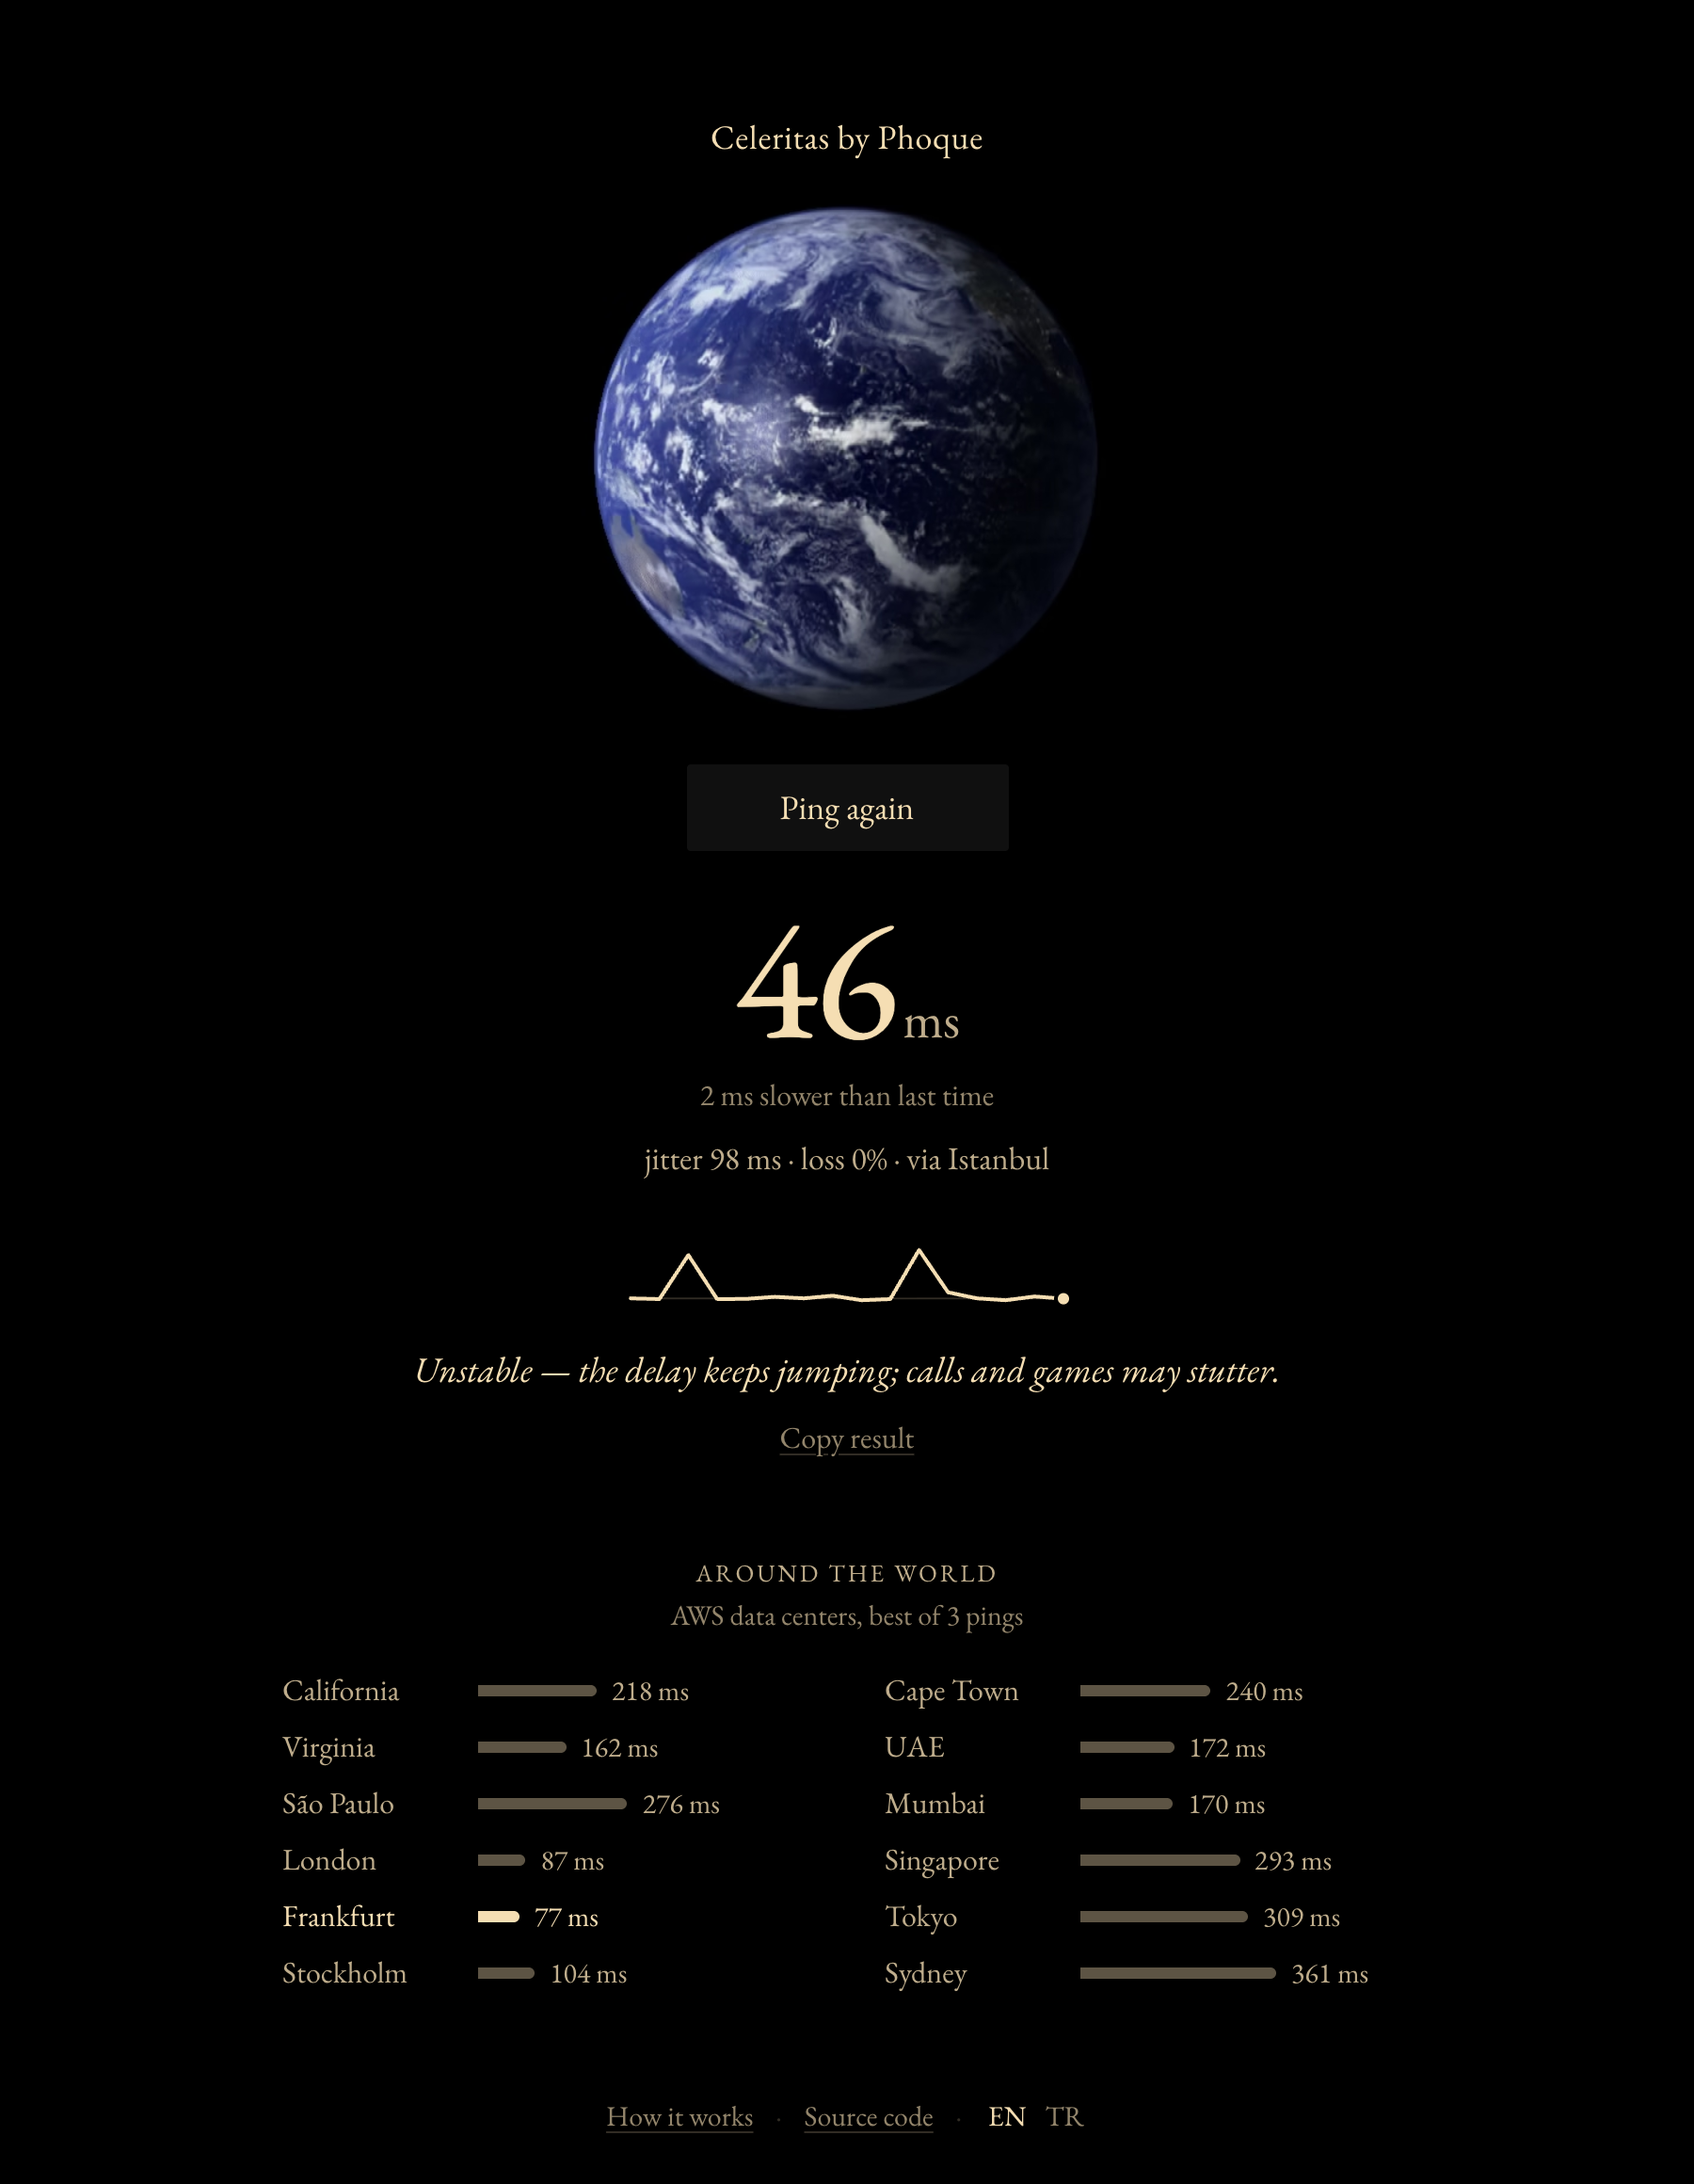
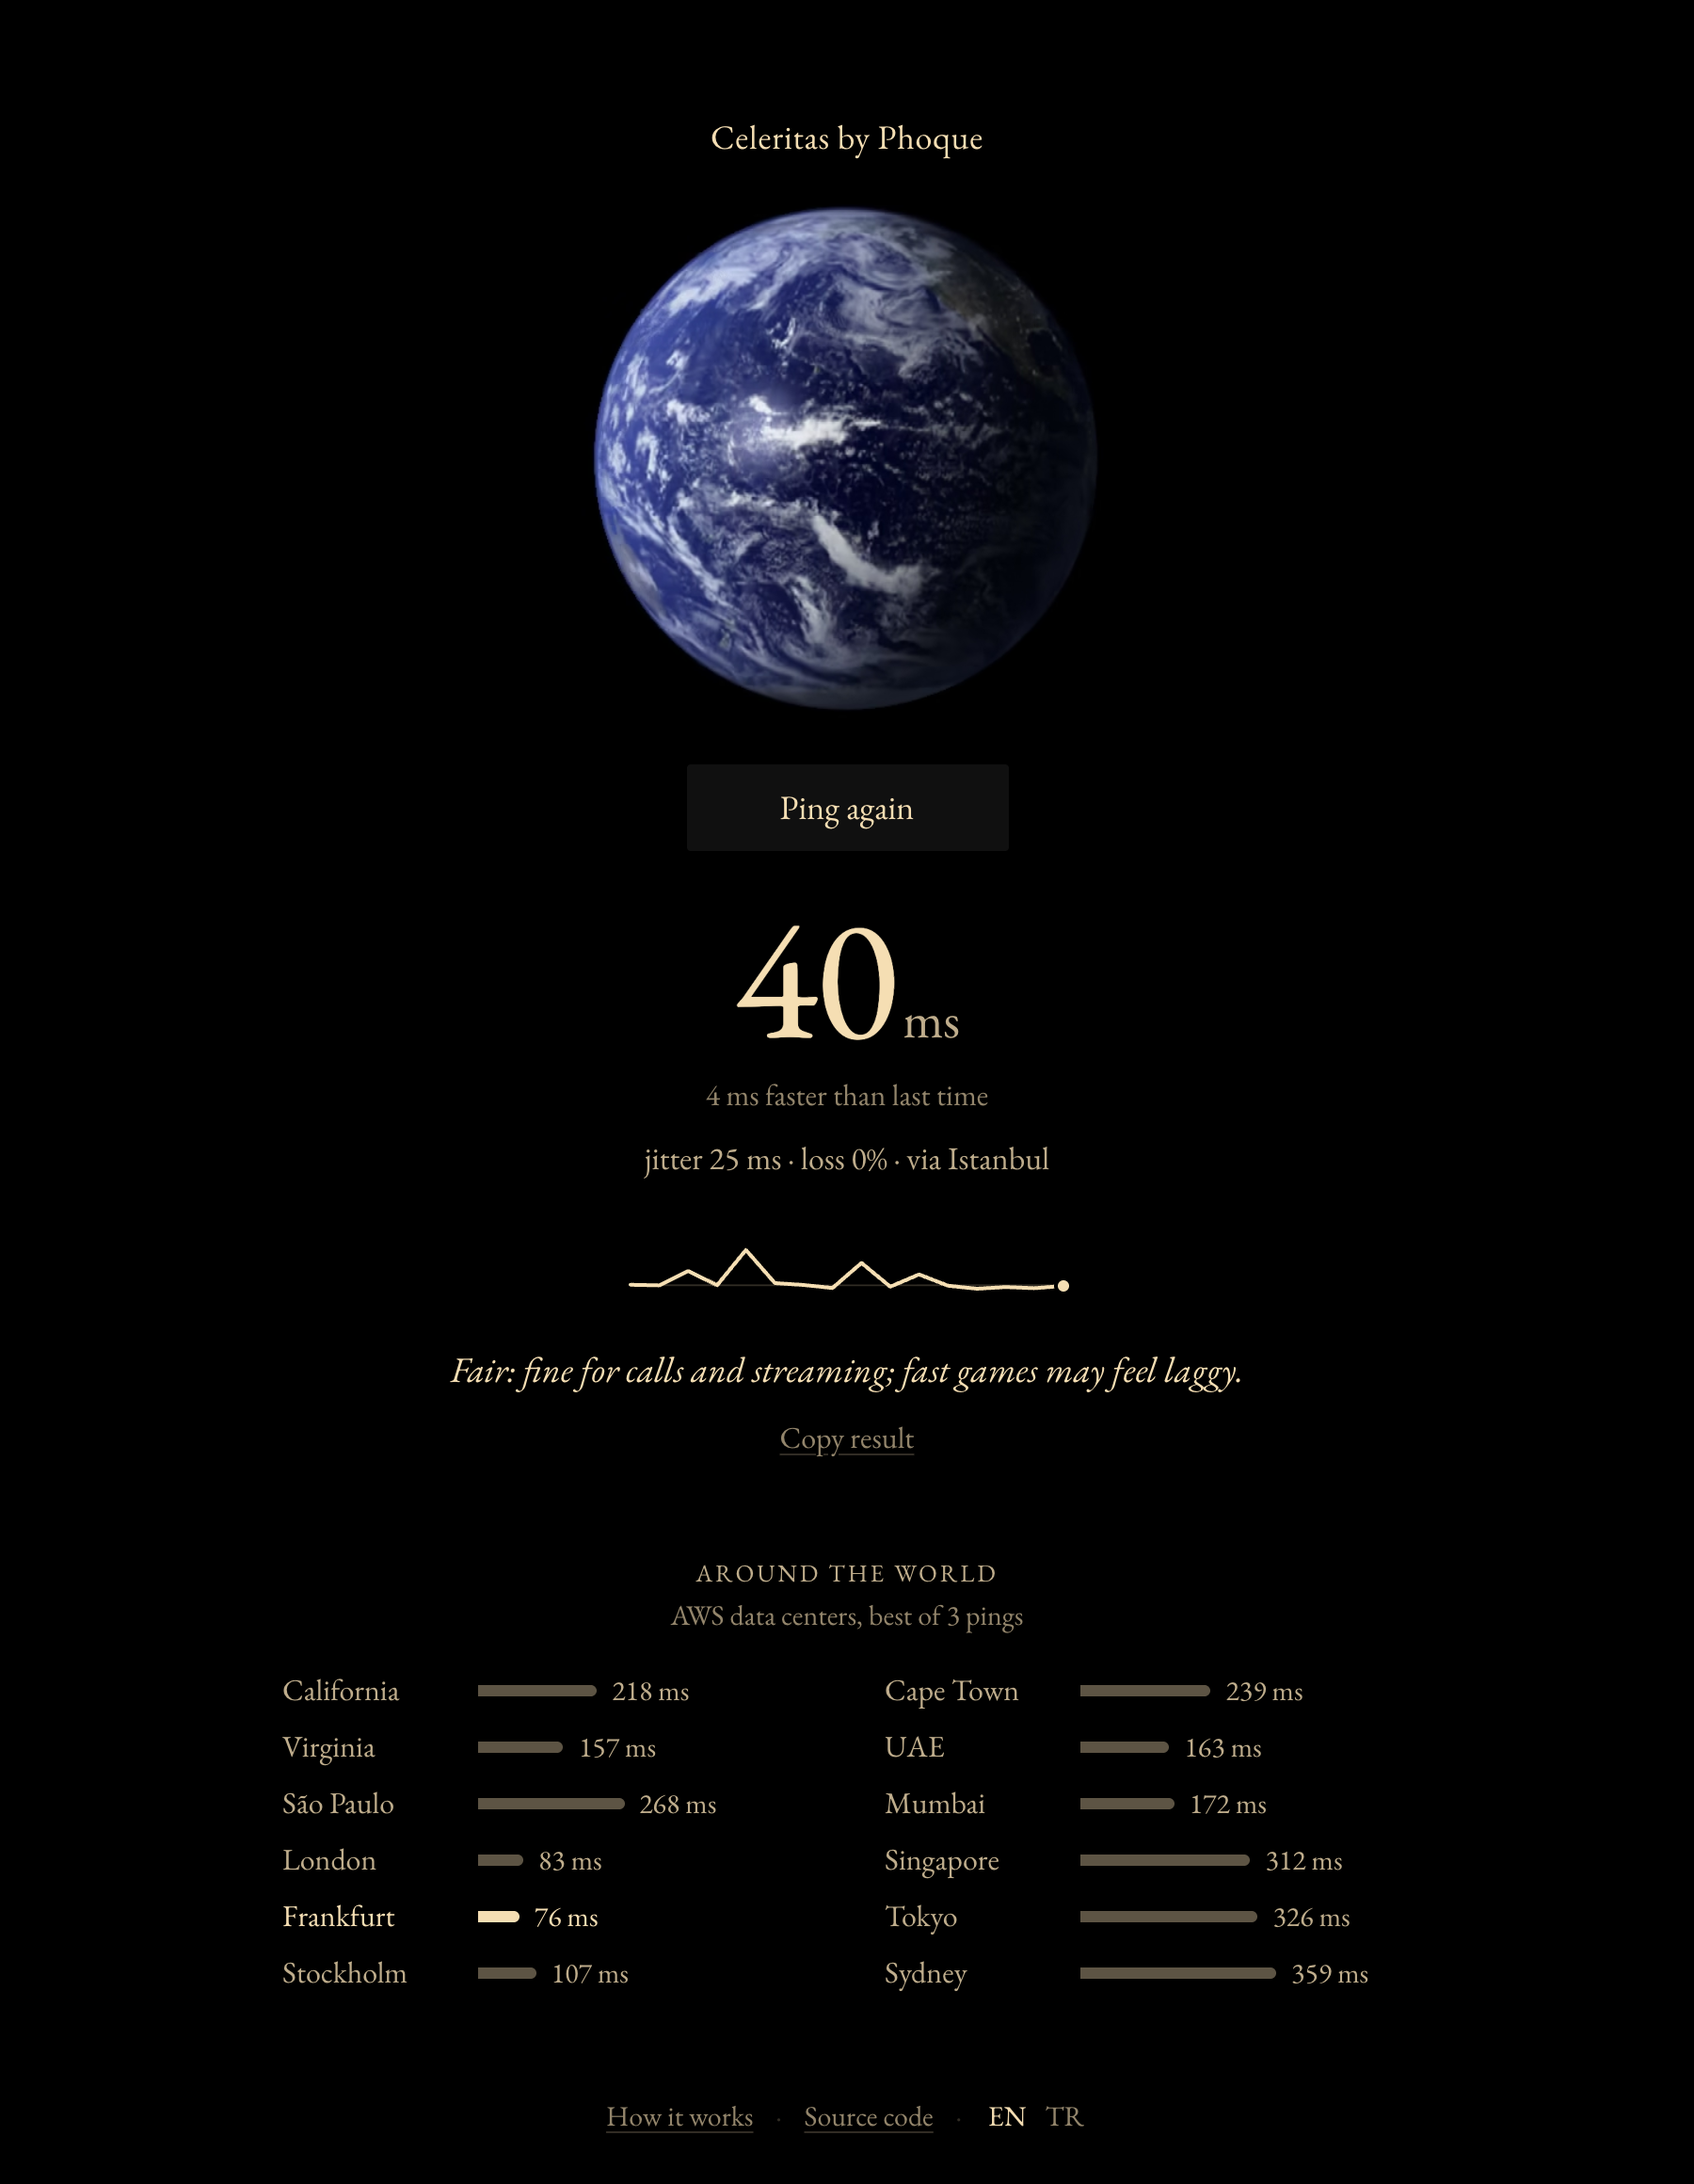
Replace em dashes in the interface text
The page title and every verdict used an em dash, and the Turkish
chart label used an en dash for a range. They now use colons and a
plain hyphen in both languages. The "no value" placeholder is a
hyphen too, and the README screenshots were retaken to match.

diff --git a/js/i18n.js b/js/i18n.js
@@ -4,7 +4,7 @@
  */
 export const MESSAGES = {
   en: {
-    'page.title': 'Celeritas — a minimalist ping test',
+    'page.title': 'Celeritas: a minimalist ping test',
     'lang.label': 'Language',
 
     'action.start': 'Ping',
@@ -30,13 +30,13 @@ export const MESSAGES = {
     'delta.slower': '{value} ms slower than last time',
     'delta.same': 'Same as last time',
 
-    'verdict.excellent': 'Excellent — as quick as connections get.',
-    'verdict.good': 'Good — smooth for gaming, video calls and streaming.',
-    'verdict.fair': 'Fair — fine for calls and streaming; fast games may feel laggy.',
-    'verdict.unstable': 'Unstable — the delay keeps jumping; calls and games may stutter.',
-    'verdict.slow': 'Slow — fine for browsing and streaming, but calls and games will lag.',
-    'verdict.poor': 'Poor — expect lag and dropouts.',
-    'verdict.none': 'No replies — your connection may be down.',
+    'verdict.excellent': 'Excellent: as quick as connections get.',
+    'verdict.good': 'Good: smooth for gaming, video calls and streaming.',
+    'verdict.fair': 'Fair: fine for calls and streaming; fast games may feel laggy.',
+    'verdict.unstable': 'Unstable: the delay keeps jumping; calls and games may stutter.',
+    'verdict.slow': 'Slow: fine for browsing and streaming, but calls and games will lag.',
+    'verdict.poor': 'Poor: expect lag and dropouts.',
+    'verdict.none': 'No replies: your connection may be down.',
 
     'world.title': 'Around the world',
     'world.note': 'AWS data centers, best of 3 pings',
@@ -75,7 +75,7 @@ export const MESSAGES = {
   },
 
   tr: {
-    'page.title': 'Celeritas — minimalist ping testi',
+    'page.title': 'Celeritas: minimalist ping testi',
     'lang.label': 'Dil',
 
     'action.start': 'Ping Gönder',
@@ -101,13 +101,13 @@ export const MESSAGES = {
     'delta.slower': 'Geçen seferden {value} ms daha yavaş',
     'delta.same': 'Geçen seferle aynı',
 
-    'verdict.excellent': 'Mükemmel — bağlantı bundan hızlı olmaz.',
-    'verdict.good': 'İyi — oyun, görüntülü görüşme ve yayın için akıcı.',
-    'verdict.fair': 'Orta — görüşme ve yayın için yeterli; hızlı oyunlarda gecikme hissedilebilir.',
-    'verdict.unstable': 'Dengesiz — gecikme sürekli dalgalanıyor; görüşme ve oyunlarda takılmalar olabilir.',
-    'verdict.slow': 'Yavaş — gezinme ve yayın için yeterli; görüşme ve oyunlarda gecikme olur.',
-    'verdict.poor': 'Zayıf — gecikme ve kopmalar beklenebilir.',
-    'verdict.none': 'Yanıt yok — bağlantınız kesilmiş olabilir.',
+    'verdict.excellent': 'Mükemmel: bağlantı bundan hızlı olmaz.',
+    'verdict.good': 'İyi: oyun, görüntülü görüşme ve yayın için akıcı.',
+    'verdict.fair': 'Orta: görüşme ve yayın için yeterli; hızlı oyunlarda gecikme hissedilebilir.',
+    'verdict.unstable': 'Dengesiz: gecikme sürekli dalgalanıyor; görüşme ve oyunlarda takılmalar olabilir.',
+    'verdict.slow': 'Yavaş: gezinme ve yayın için yeterli; görüşme ve oyunlarda gecikme olur.',
+    'verdict.poor': 'Zayıf: gecikme ve kopmalar beklenebilir.',
+    'verdict.none': 'Yanıt yok: bağlantınız kesilmiş olabilir.',
 
     'world.title': 'Dünya genelinde',
     'world.note': 'AWS veri merkezleri, 3 pingin en iyisi',
@@ -125,7 +125,7 @@ export const MESSAGES = {
     'region.ap-northeast-1': 'Tokyo',
     'region.ap-southeast-2': 'Sidney',
 
-    'chart.label': '{count} isteğin gidiş-dönüş süresi, {min}–{max} ms',
+    'chart.label': '{count} isteğin gidiş-dönüş süresi, {min}-{max} ms',
     'chart.sample': '{index}. istek: {value} ms',
     'chart.lost': '{index}. istek: yanıt yok',
 
@@ -170,9 +170,9 @@ export function createI18n(lang) {
       const template = messages[key] ?? key;
       return template.replace(/\{(\w+)\}/g, (match, name) => (name in values ? String(values[name]) : match));
     },
-    /** A duration in whole milliseconds; "<1" for tiny values and "—" when missing. */
+    /** A duration in whole milliseconds; "<1" for tiny values and "-" when missing. */
     ms(value) {
-      if (value == null || !Number.isFinite(value)) return '—';
+      if (value == null || !Number.isFinite(value)) return '-';
       if (value > 0 && value < 1) return '<1';
       return number.format(Math.round(value));
     },

diff --git a/index.html b/index.html
@@ -3,7 +3,7 @@
 <head>
   <meta charset="UTF-8">
   <meta name="viewport" content="width=device-width, initial-scale=1">
-  <title>Celeritas — a minimalist ping test</title>
+  <title>Celeritas: a minimalist ping test</title>
   <meta name="description" content="Celeritas is a sleek and minimalist ping tester. Measure your ping, jitter and packet loss, then see how far the rest of the world is.">
   <meta name="color-scheme" content="dark">
   <meta name="theme-color" content="#000000">
@@ -54,7 +54,7 @@
     <p class="hint" id="hint" data-i18n="hint.keys">or press Space</p>
 
     <section class="result">
-      <p class="reading" id="reading" hidden><span class="value" id="value">—</span><span class="unit">ms</span></p>
+      <p class="reading" id="reading" hidden><span class="value" id="value">-</span><span class="unit">ms</span></p>
       <p class="note" id="note">Waiting for ping…</p>
       <p class="stats" id="stats" hidden></p>
       <figure class="spark" id="spark" tabindex="0" hidden>

diff --git a/tests/i18n.test.js b/tests/i18n.test.js
@@ -52,7 +52,7 @@ test('durations are whole milliseconds in the local format', () => {
   assert.equal(en.ms(42.4), '42');
   assert.equal(en.ms(0.3), '<1');
   assert.equal(en.ms(0), '0');
-  assert.equal(en.ms(null), '—');
+  assert.equal(en.ms(null), '-');
   assert.equal(en.ms(1234), '1,234');
   assert.equal(tr.ms(1234), '1.234');
 });

diff --git a/README.md b/README.md
@@ -7,9 +7,9 @@ A sleek and minimalist ping test that runs in your browser. It measures ping, ji
 [![Tests](https://github.com/Phoque52/celeritas/actions/workflows/tests.yml/badge.svg)](https://github.com/Phoque52/celeritas/actions/workflows/tests.yml)
 
 <p align="center">
-  <img src="docs/screenshot-desktop.png" alt="Celeritas on a desktop: a 46 ms ping with two lag spikes in the chart, rated unstable, and latency to 12 world regions" width="497">
+  <img src="docs/screenshot-desktop.png" alt="Celeritas on a desktop: a 40 ms ping with 25 ms jitter, rated fair, and latency to 12 world regions" width="497">
   &nbsp;
-  <img src="docs/screenshot-mobile.png" alt="Celeritas on a phone: a 42 ms ping with 6 ms jitter, rated good" width="190">
+  <img src="docs/screenshot-mobile.png" alt="Celeritas on a phone: a 63 ms ping with 24 ms jitter, rated fair" width="190">
 </p>
 
 ## Features
